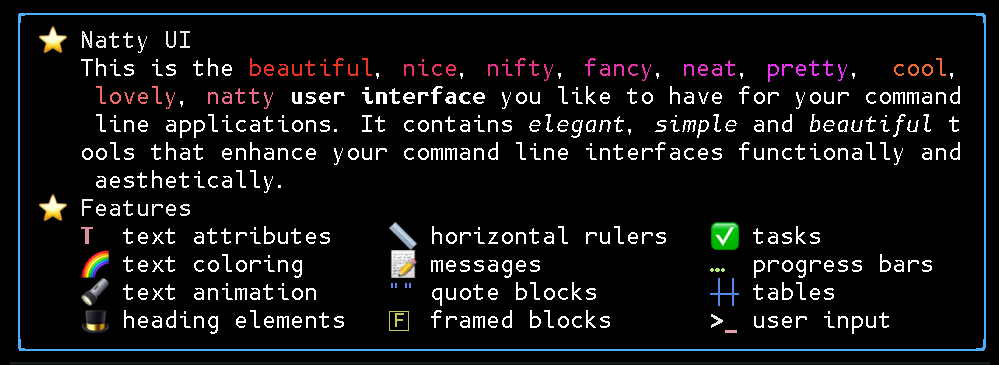
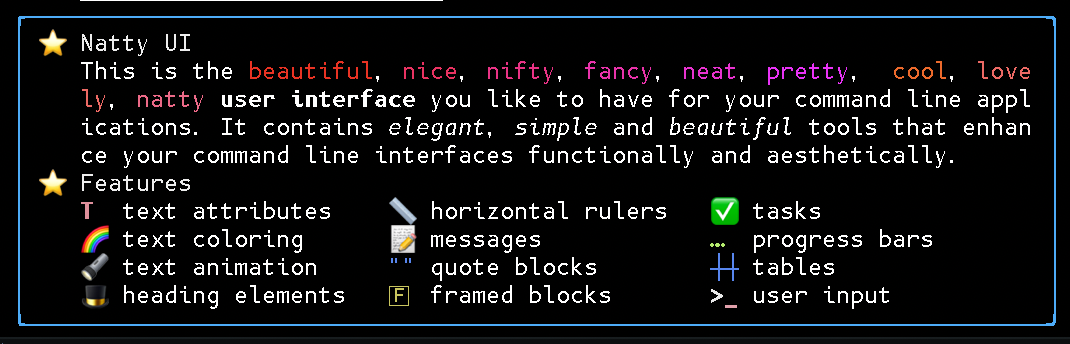
v0.9.2 (#8)
- fix `Wrapper#page` method
- correct `Natty.display_width` (respects additional ANSI formatters)
- use shorter `Ansi::RESET`
- extend tests
- tweak illustration

Changed region(s): [[0.0, 0.0291, 1.0, 0.9884]]

diff --git a/lib/natty-ui/ansi_constants.rb b/lib/natty-ui/ansi_constants.rb
@@ -4,42 +4,31 @@ module NattyUI
   module Ansi
     CURSOR_SHOW = "\e[?25h"
     CURSOR_HIDE = "\e[?25l"
+
     CURSOR_HOME = cursor_pos(nil, nil)
     CURSOR_FIRST_ROW = cursor_pos(1).freeze
     CURSOR_FIRST_COLUMN = cursor_column(1).freeze
+
     CURSOR_SAFE_POS_SCO = "\e[s"
-    CURSOR_RESTORE_POS_SCO = "\e[u"
     CURSOR_SAFE_POS_DEC = "\e7"
-    CURSOR_RESTORE_POS_DEC = "\e8"
     CURSOR_SAFE_POS = CURSOR_SAFE_POS_DEC
+
+    CURSOR_RESTORE_POS_SCO = "\e[u"
+    CURSOR_RESTORE_POS_DEC = "\e8"
     CURSOR_RESTORE_POS = CURSOR_RESTORE_POS_DEC
 
-    CURSOR_ALIGN_RIGHT = "\e[9999G\e[1D\e[1C" # @!visibility private
-
     SCREEN_ERASE = screen_erase(:entire)
+
     SCREEN_SAVE = "\e[?47h"
     SCREEN_RESTORE = "\e[?47l"
+
     SCREEN_ALTERNATE = "\e[?1049h"
     SCREEN_ALTERNATE_OFF = "\e[?1049l"
-    SCREEN_SAVE_ATTRIBUTES = '\e[#{'
-    SCREEN_RESTORE_ATTRIBUTES = '\e[#}'
-
-    SCREEN_BLANK = "\e[0m\e[s\e[?47h\e[H\e[2J" # @!visibility private
-    SCREEN_UNBLANK = "\e[?47l\e[u\e[0m" # @!visibility private
 
     LINE_PREVIOUS = cursor_previous_line(1).freeze
     LINE_NEXT = cursor_next_line(1).freeze
     LINE_ERASE = line_erase(:entire)
 
-    # ANSI control code sequence to erase the screen and set cursor position on
-    # upper left corner.
-    CLS = (CURSOR_HOME + SCREEN_ERASE).freeze
-
-    # ANSI control code sequence to erase current line and position to first
-    # column.
-    CLL = (LINE_ERASE + CURSOR_FIRST_COLUMN).freeze
-
-    # ANSI control code to reset all attributes.
     RESET = self[:reset].freeze
 
     BOLD = self[:bold].freeze
@@ -69,5 +58,20 @@ module NattyUI
 
     HIDE = self[:hide].freeze
     REVEAL = self[:reveal].freeze
+
+    # @!visibility private
+    CLS = (CURSOR_HOME + SCREEN_ERASE).freeze
+
+    # @!visibility private
+    CLL = (CURSOR_FIRST_COLUMN + LINE_ERASE).freeze
+
+    # @!visibility private
+    SCREEN_BLANK =
+      (
+        CURSOR_SAFE_POS + SCREEN_ALTERNATE + CURSOR_HOME + SCREEN_ERASE + RESET
+      ).freeze
+
+    # @!visibility private
+    SCREEN_UNBLANK = (RESET + SCREEN_ALTERNATE_OFF + CURSOR_RESTORE_POS).freeze
   end
 end

diff --git a/lib/natty-ui/ansi.rb b/lib/natty-ui/ansi.rb
@@ -209,9 +209,9 @@ module NattyUI
               when (0..255)
                 "38;5;#{arg}"
               when (256..511)
-                "48;5;#{arg}"
+                "48;5;#{arg - 256}"
               when (512..767)
-                "58;5;#{arg}"
+                "58;5;#{arg - 512}"
               else
                 invalid_argument(arg)
               end
@@ -331,7 +331,12 @@ module NattyUI
       end
     end
 
-    ESC = /(#{Reline::Unicode::CSI_REGEXP})|(#{Reline::Unicode::OSC_REGEXP})/
+    CSI = /\e\[[\d;:]*[ABCDEFGHJKSTfminsuhl]/
+    OSC = /\e\]\d+(?:;[^;\a\e]+)*(?:\a|\e\\)/
+    ESC = /(#{CSI})|(#{OSC})/
+
+    # @!visibility private
+    WIDTH_SCANNER = /\G(?:(\1)|(\2)|(#{CSI})|(#{OSC})|(\X))/
 
     CLR_PREFIX = {
       'fg' => '38',
@@ -340,8 +345,8 @@ module NattyUI
       'on' => '48'
     }.freeze
 
-    PI2_THIRD = 2 * Math::PI / 3.0
-    PI4_THIRD = 4 * Math::PI / 3.0
+    PI2_THIRD = 2 * Math::PI / 3
+    PI4_THIRD = 4 * Math::PI / 3
 
     SATTR =
       Module
@@ -349,6 +354,7 @@ module NattyUI
           def self.to_hash
             map = {
               # alternative names
+              reset: '',
               slow_blink: 5,
               conceal: 8,
               default_font: 10,
@@ -370,9 +376,8 @@ module NattyUI
             }
             add = ->(s, n) { n.each_with_index { |a, idx| map[a] = s + idx } }
             add[
-              0,
+              1,
               %i[
-                reset
                 bold
                 faint
                 italic
@@ -480,6 +485,8 @@ module NattyUI
     SCLR = CLR.transform_keys(&:to_sym).compare_by_identity.freeze
 
     private_constant(
+      :CSI,
+      :OSC,
       :ESC,
       :CLR_PREFIX,
       :PI2_THIRD,

diff --git a/spec/lib/natty-ui_spec.rb b/spec/lib/natty-ui_spec.rb
@@ -93,7 +93,7 @@ RSpec.describe NattyUI do
     it 'translates embedded ANSI attributes' do
       expect(
         NattyUI.embellish('[[bold]]Hello [[blink ff00ff onfafafa]]World[[/]]!')
-      ).to eq "\e[1mHello \e[5;38;2;255;0;255;48;2;250;250;250mWorld\e[0m!"
+      ).to eq "\e[1mHello \e[5;38;2;255;0;255;48;2;250;250;250mWorld\e[m!"
     end
 
     it 'respects escaped and invalid attributes' do
@@ -104,22 +104,36 @@ RSpec.describe NattyUI do
   end
 
   describe '.plain' do
+    let(:all_attributes) do
+      (NattyUI::Ansi.attribute_names + NattyUI::Ansi.color_names)
+    end
+
     it 'removes embedded ANSI attributes' do
       expect(
         NattyUI.plain('[[bold]]Hello [[blink ff00ff onfafafa]]World[[/]]!')
       ).to eq('Hello World!')
     end
 
-    it 'removes additionally ANSI control codes' do
-      expect(
-        NattyUI.plain("\e[1K\e[0G[[bold]]Hello [[blink]]World!", ansi: :remove)
-      ).to eq('Hello World!')
+    it 'removes all supported attributes' do
+      str = all_attributes.map { "[[#{_1}]]C" }.join
+      expect(NattyUI.plain(str)).to eq('C' * all_attributes.size)
     end
 
     it 'does not remove escaped and invalid attributes' do
       expect(NattyUI.plain('[[/some test]] Hello [[another test]]')).to eq(
         '[[some test]] Hello [[another test]]'
       )
+    end
+
+    it 'removes ANSI control codes too' do
+      expect(
+        NattyUI.plain("\e[1K\e[0G[[bold]]Hello [[blink]]World!", ansi: :remove)
+      ).to eq('Hello World!')
+    end
+
+    it 'removes all supported ANSI control codes' do
+      str = all_attributes.map { "#{NattyUI::Ansi[_1]}C" }.join
+      expect(NattyUI.plain(str, ansi: :remove)).to eq('C' * all_attributes.size)
     end
   end
 

diff --git a/examples/illustration.rb b/examples/illustration.rb
@@ -7,10 +7,9 @@ ui.framed do
     This is the [[c4]]beautiful[[/]], [[c5]]nice[[/]], [[c6]]nifty[[/]],
     [[c7]]fancy[[/]], [[c8]]neat[[/]], [[c9]]pretty[[/]],  [[ca]]cool[[/]],
     [[cb]]lovely[[/]], [[cc]]natty[[/]] [[bold]]user interface[[/]] you like to
-    have for your command line applications. It contains
-    [[curly_underline ul_c4]]elegant[[/]], [[italic]]simple[[/]] and
-    [[double_underline ul_cc]]beautiful[[/]] tools that enhance your command
-    line interfaces functionally and aesthetically.
+    have for your command line applications. It contains [[italic]]elegant[[/]],
+    [[italic]]simple[[/]] and [[italic]]beautiful[[/]] tools that enhance your
+    command line interfaces functionally and aesthetically.
   TEXT
 
   ui.msg('Features', glyph: '⭐') { ui.ls(<<~FEATURES.lines(chomp: true)) }

diff --git a/lib/natty-ui.rb b/lib/natty-ui.rb
@@ -124,14 +124,12 @@ module NattyUI
       return 0 if str.empty?
       width = 0
       in_zero_width = false
-      str.scan(
-        Reline::Unicode::WIDTH_SCANNER
-      ) do |non_printing_start, non_printing_end, _csi, _osc, gc|
+      str.scan(Ansi::WIDTH_SCANNER) do |np_start, np_end, _csi, _osc, gc|
         if in_zero_width
-          in_zero_width = false if non_printing_end
+          in_zero_width = false if np_end
           next
         end
-        next in_zero_width = true if non_printing_start
+        next in_zero_width = true if np_start
         width += Reline::Unicode.get_mbchar_width(gc) if gc
       end
       width

diff --git a/lib/natty-ui/ansi_wrapper.rb b/lib/natty-ui/ansi_wrapper.rb
@@ -80,7 +80,7 @@ module NattyUI
       lambda do
         count = @lines_written - count
         if count.nonzero?
-          @stream << Ansi.cursor_prev_line(count) << Ansi.display(:erase_below)
+          @stream << Ansi.cursor_prev_line(count) << Ansi.screen_erase(:below)
           @lines_written -= count
         end
         @stream.flush

diff --git a/spec/lib/natty-ui/ansi_constants_spec.rb b/spec/lib/natty-ui/ansi_constants_spec.rb
@@ -2,7 +2,7 @@
 
 RSpec.describe 'NattyUI::Ansi' do
   NattyUI::Ansi.constants.each do |name|
-    it "defines #{name} as constant" do
+    it "defines #{name} as frozen constant" do
       expect(NattyUI::Ansi.const_get(name)).to be_frozen
     end
   end

diff --git a/lib/natty-ui/version.rb b/lib/natty-ui/version.rb
@@ -2,5 +2,5 @@
 
 module NattyUI
   # The version number of the gem.
-  VERSION = '0.9.1'
+  VERSION = '0.9.2'
 end
